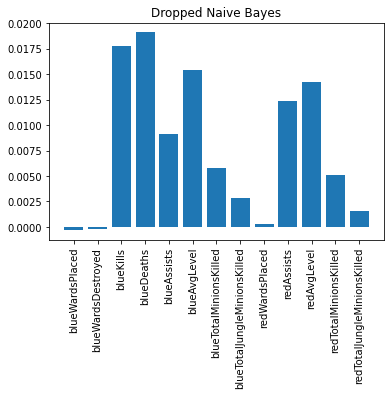
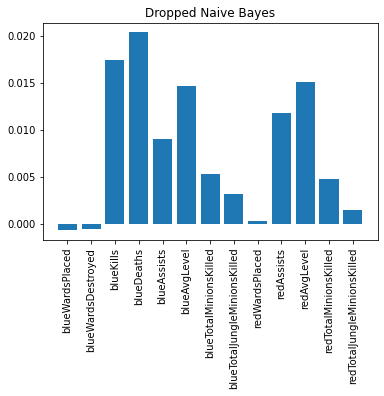
Code complete

diff --git a/Project.py b/Project.py
@@ -96,8 +96,52 @@ def DropColumns(dropCols):
     
     return dropped_X_train, dropped_X_test, droppedHeader
 
+# normalize to 1-2
+def Normalization(accuracy):
+    return (accuracy - min(accuracy)) / (max(accuracy) - min(accuracy)) + 1
+
+
 if __name__ == "__main__":
     print("Happy Machine Learning")
+
+    #----------------------------------------------------------------------
+    # Run with original full data
+    
+    origin_X_train, origin_y_train, origin_X_test, origin_y_test, origin_header = DataPreprocess.SplitDataOnly(data)
+    originAccuracy = []
+    
+    # decision tree
+    decisionTreeAccuracy, decisionTreeImportance = DecisionTree(origin_X_train, origin_X_test)
+    print("Original Decision Tree Accuracy: ", decisionTreeAccuracy)
+    originAccuracy.append(decisionTreeAccuracy)
+    Plot(origin_header, decisionTreeImportance, "Original Decision Tree Importance")
+    
+    # random forest
+    randomForestAccuracy, randomForestImportance = RandomForest(origin_X_train, origin_X_test)
+    print("Original Random Forest Accuracy: ", randomForestAccuracy)
+    originAccuracy.append(randomForestAccuracy)
+    Plot(origin_header, randomForestImportance, "Original Random Forest Importance")
+
+    # naive Bayes
+    naiveBayesAccuracy, naiveBayesImportance = NaiveBayes(origin_X_train, origin_X_test)
+    print("Original Naive Bayes Accuracy: ", naiveBayesAccuracy)
+    originAccuracy.append(naiveBayesAccuracy)
+    Plot(origin_header, naiveBayesImportance, "Original Naive Bayes")
+
+    # LogisticRegression
+    logisticRegressionAccuracy, logisticRegressionImportance = LogisticRegression(origin_X_train, origin_X_test)
+    print("Original Logistic Regression Accuracy: ", logisticRegressionAccuracy)
+    originAccuracy.append(logisticRegressionAccuracy)
+    Plot(origin_header, logisticRegressionImportance, "Original Logistic Regression Importance")
+    
+    normalizedOriAcc = Normalization(originAccuracy)
+    # combine the importances with normalized accuracy
+    combinedImportance = normalizedOriAcc[0] * decisionTreeImportance + normalizedOriAcc[1] * randomForestImportance \
+        + normalizedOriAcc[2] * naiveBayesImportance + normalizedOriAcc[3] * logisticRegressionImportance
+    Plot(origin_header, combinedImportance, "Original Combined Importance")
+    
+    #----------------------------------------------------------------------
+    # drop unnecessary data 
     
     initialAccuracy = []
     
@@ -125,10 +169,14 @@ if __name__ == "__main__":
     initialAccuracy.append(logisticRegressionAccuracy)
     Plot(header, logisticRegressionImportance, "Logistic Regression Importance")
     
-    # combine the importances
-    combinedImportance = decisionTreeImportance + randomForestImportance + naiveBayesImportance + logisticRegressionImportance
-    Plot(header, combinedImportance, "Combined Importance")
+    normalizedIniAcc = Normalization(initialAccuracy)
+    # combine the importances with normalized accuracy
+    combinedImportance = normalizedIniAcc[0] * decisionTreeImportance + normalizedIniAcc[1] * randomForestImportance \
+        + normalizedIniAcc[2] * naiveBayesImportance + normalizedIniAcc[3] * logisticRegressionImportance
+    Plot(header, combinedImportance, "Dropped Combined Importance")
     
+    #----------------------------------------------------------------------
+    # Second round
     # drop the 10 least important feature
     dropHeader = FindMinIndex(10, combinedImportance, header)
     dropped_X_train, dropped_X_test, droppedHeader = DropColumns(dropHeader)
@@ -159,11 +207,15 @@ if __name__ == "__main__":
     droppedAccuracy.append(logisticRegressionAccuracy)
     Plot(droppedHeader, logisticRegressionImportance, "Dropped Logistic Regression Importance")
     
-    # combine the importances
-    combinedImportance = decisionTreeImportance + randomForestImportance + naiveBayesImportance + logisticRegressionImportance
+    normalizedDropAcc = Normalization(droppedAccuracy)
+    # combine the importances with normalized accuracy
+    combinedImportance = normalizedDropAcc[0] * decisionTreeImportance + normalizedDropAcc[1] * randomForestImportance \
+        + normalizedDropAcc[2] * naiveBayesImportance + normalizedDropAcc[3] * logisticRegressionImportance
     Plot(droppedHeader, combinedImportance, "Dropped Combined Importance")
     
-    # drop the 6 least important feature
+    #----------------------------------------------------------------------
+    # Third round
+    # drop another 6 least important feature
     dropHeader2 = FindMinIndex(6, combinedImportance, droppedHeader)
     dropHeader2 = dropHeader + dropHeader2
     dropped2_X_train, dropped2_X_test, droppedHeader2 = DropColumns(dropHeader2)
@@ -194,11 +246,19 @@ if __name__ == "__main__":
     droppedAccuracy2.append(logisticRegressionAccuracy)
     Plot(droppedHeader2, logisticRegressionImportance, "Dropped Logistic Regression Importance 2")
     
+    normalizedDrop2Acc = Normalization(droppedAccuracy2)
+    # combine the importances with normalized accuracy
+    combinedImportance = normalizedDrop2Acc[0] * decisionTreeImportance + normalizedDrop2Acc[1] * randomForestImportance \
+        + normalizedDrop2Acc[2] * naiveBayesImportance + normalizedDrop2Acc[3] * logisticRegressionImportance
+    Plot(droppedHeader2, combinedImportance, "Dropped Combined Importance 2")
+    
+    #----------------------------------------------------------------------
     # plot accuracy
     xAxis = ["Decision Tree", "Random Forest", "Naive Bayes", "Logistic Regression"]
     plt.figure()
     plt.xticks(rotation=90, ha='center')
     plt.title("Accuracy")
+    plt.plot(xAxis, originAccuracy, 'v', color='black', label='Original')
     plt.plot(xAxis, initialAccuracy, 'v', color='blue', label='Initial')
     plt.plot(xAxis, droppedAccuracy, 'v', color='red', label='Drop 10')
     plt.plot(xAxis, droppedAccuracy2, 'v', color='green', label='Drop 16')

diff --git a/DataPreprocess.py b/DataPreprocess.py
@@ -35,5 +35,30 @@ def SplitData(data):
     X_train, X_test, y_train, y_test = train_test_split(X, y, test_size=0.3, random_state=42)
     
     return X_train, y_train, X_test, y_test, header
+
+def SplitDataOnly(data):
+    # data length = 9879
+    # first 70% as training data
+    # last 30% as testing data
+    
+    # set Blue Wins as y
+    
+    from sklearn.preprocessing import MinMaxScaler
+    from sklearn.model_selection import train_test_split
+    
+    dropCols = ['gameId', 'blueWins']
+    cleanData = data.drop(dropCols, axis = 1)
+    
+    X = cleanData
+    header = list(X)
+    y = data['blueWins']
+    
+    scaler = MinMaxScaler()
+    scaler.fit(X)
+    X = scaler.transform(X)
+    
+    X_train, X_test, y_train, y_test = train_test_split(X, y, test_size=0.3, random_state=42)
+    
+    return X_train, y_train, X_test, y_test, header
     
 # %%
